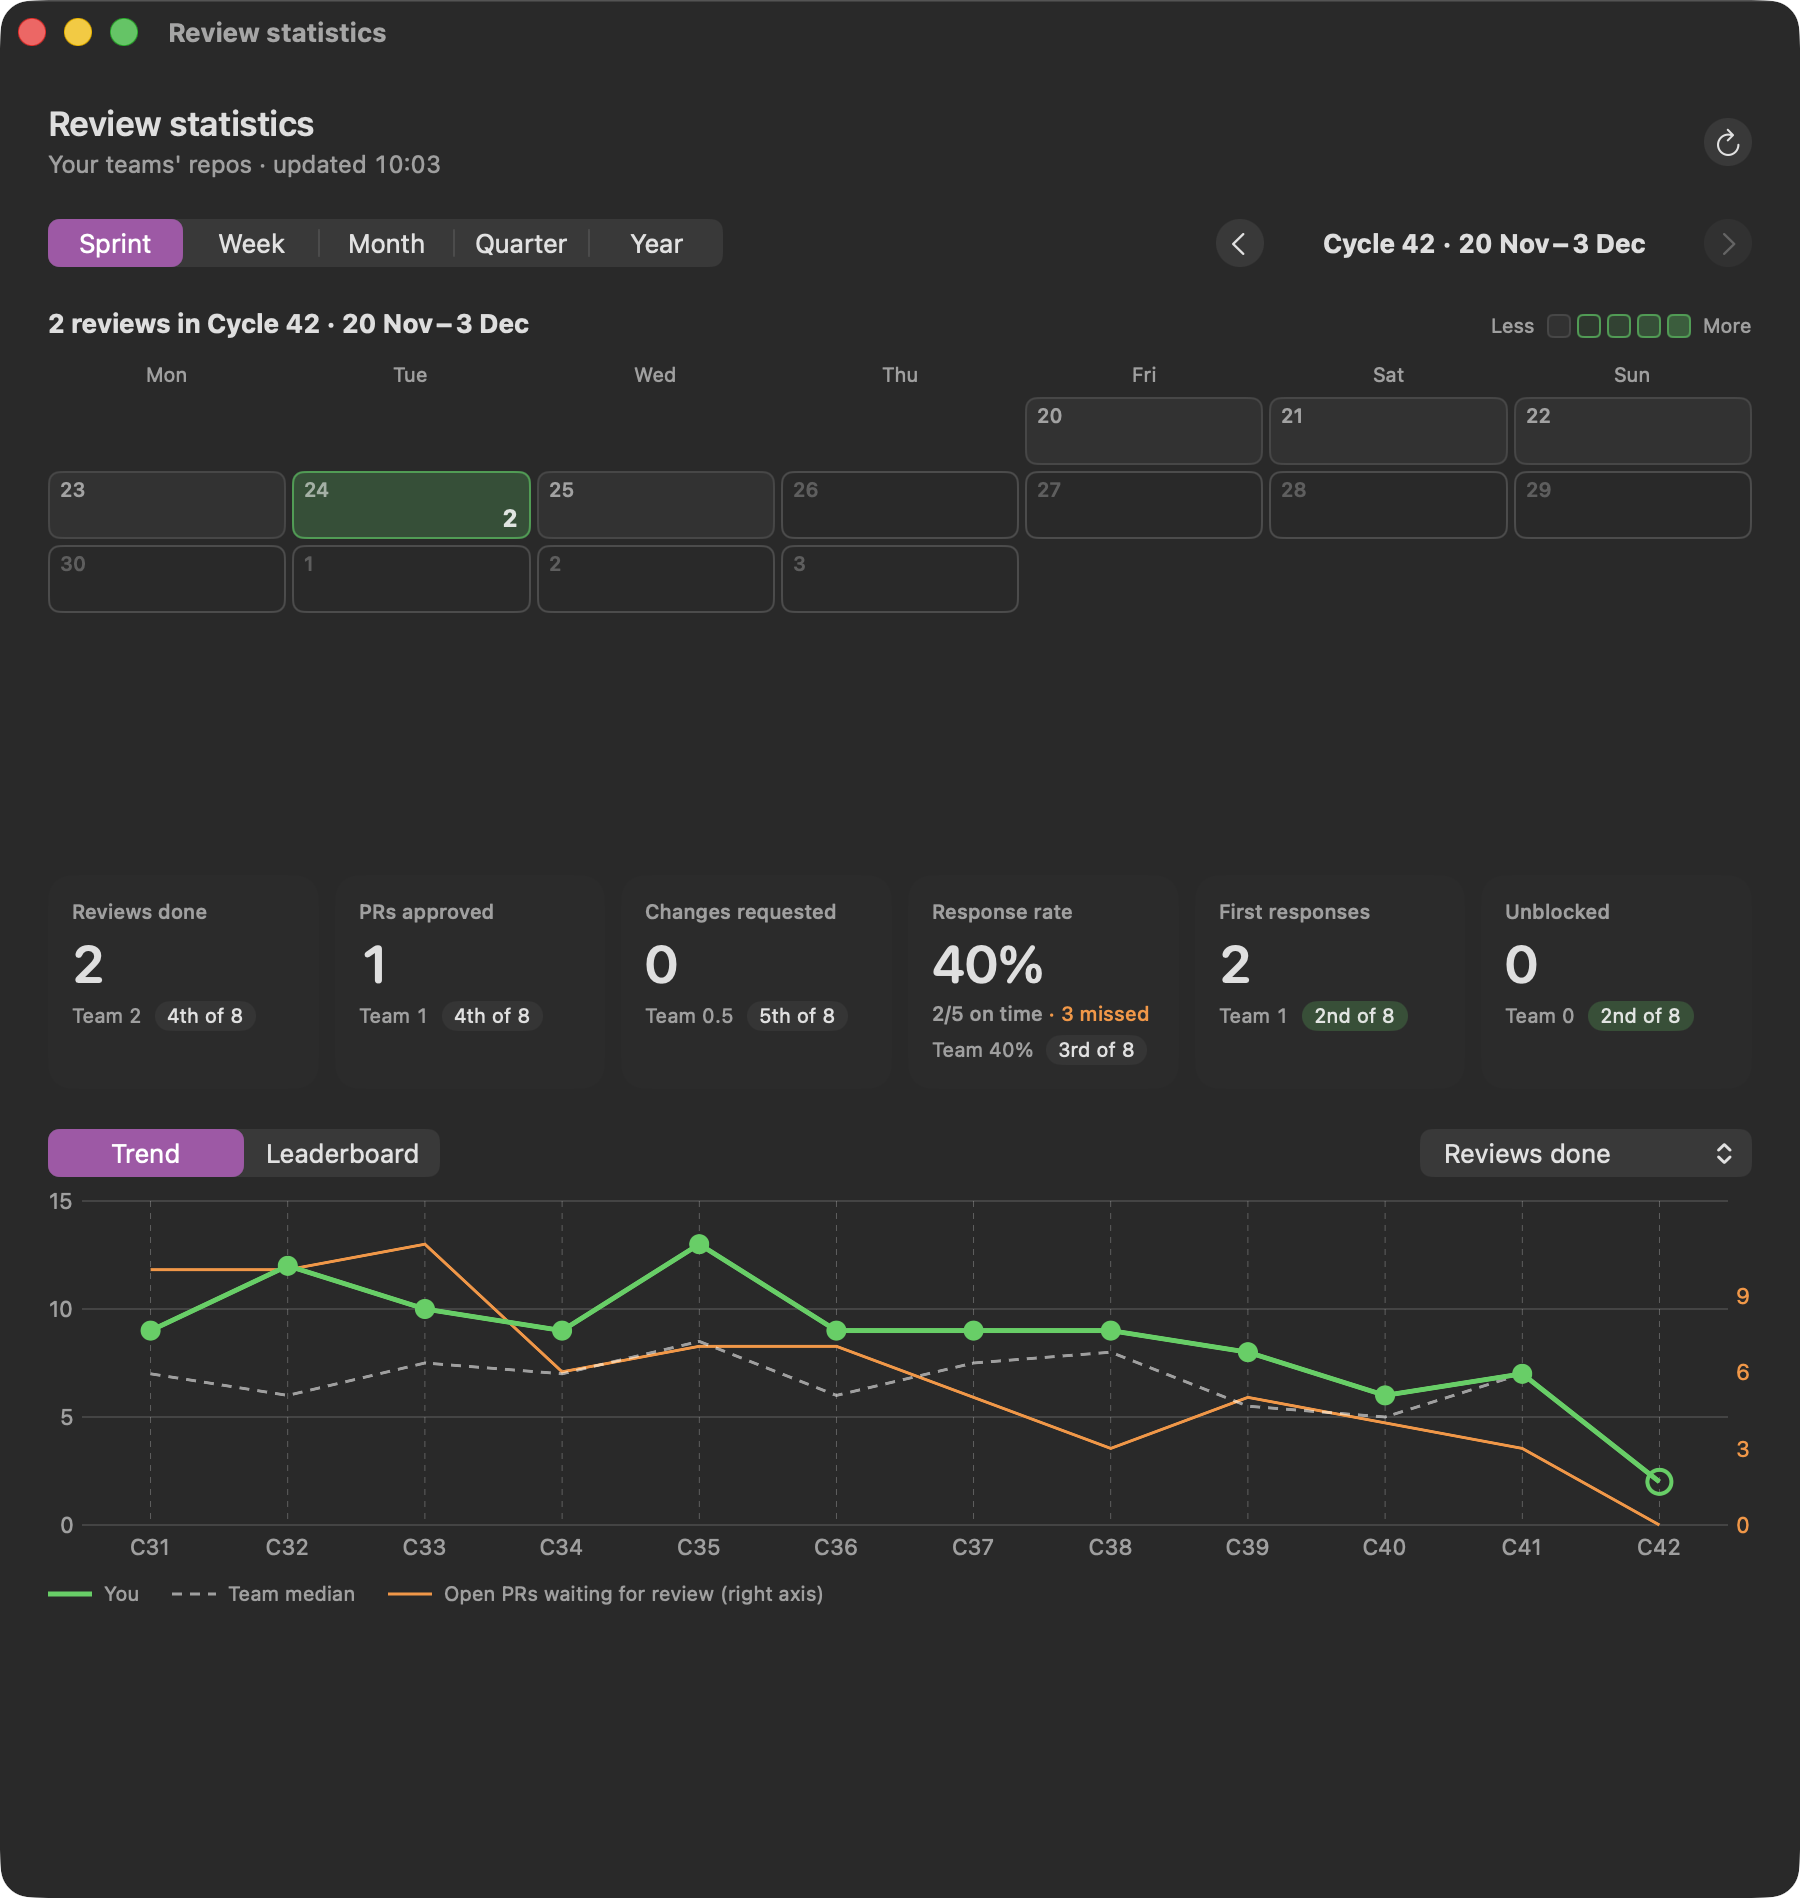
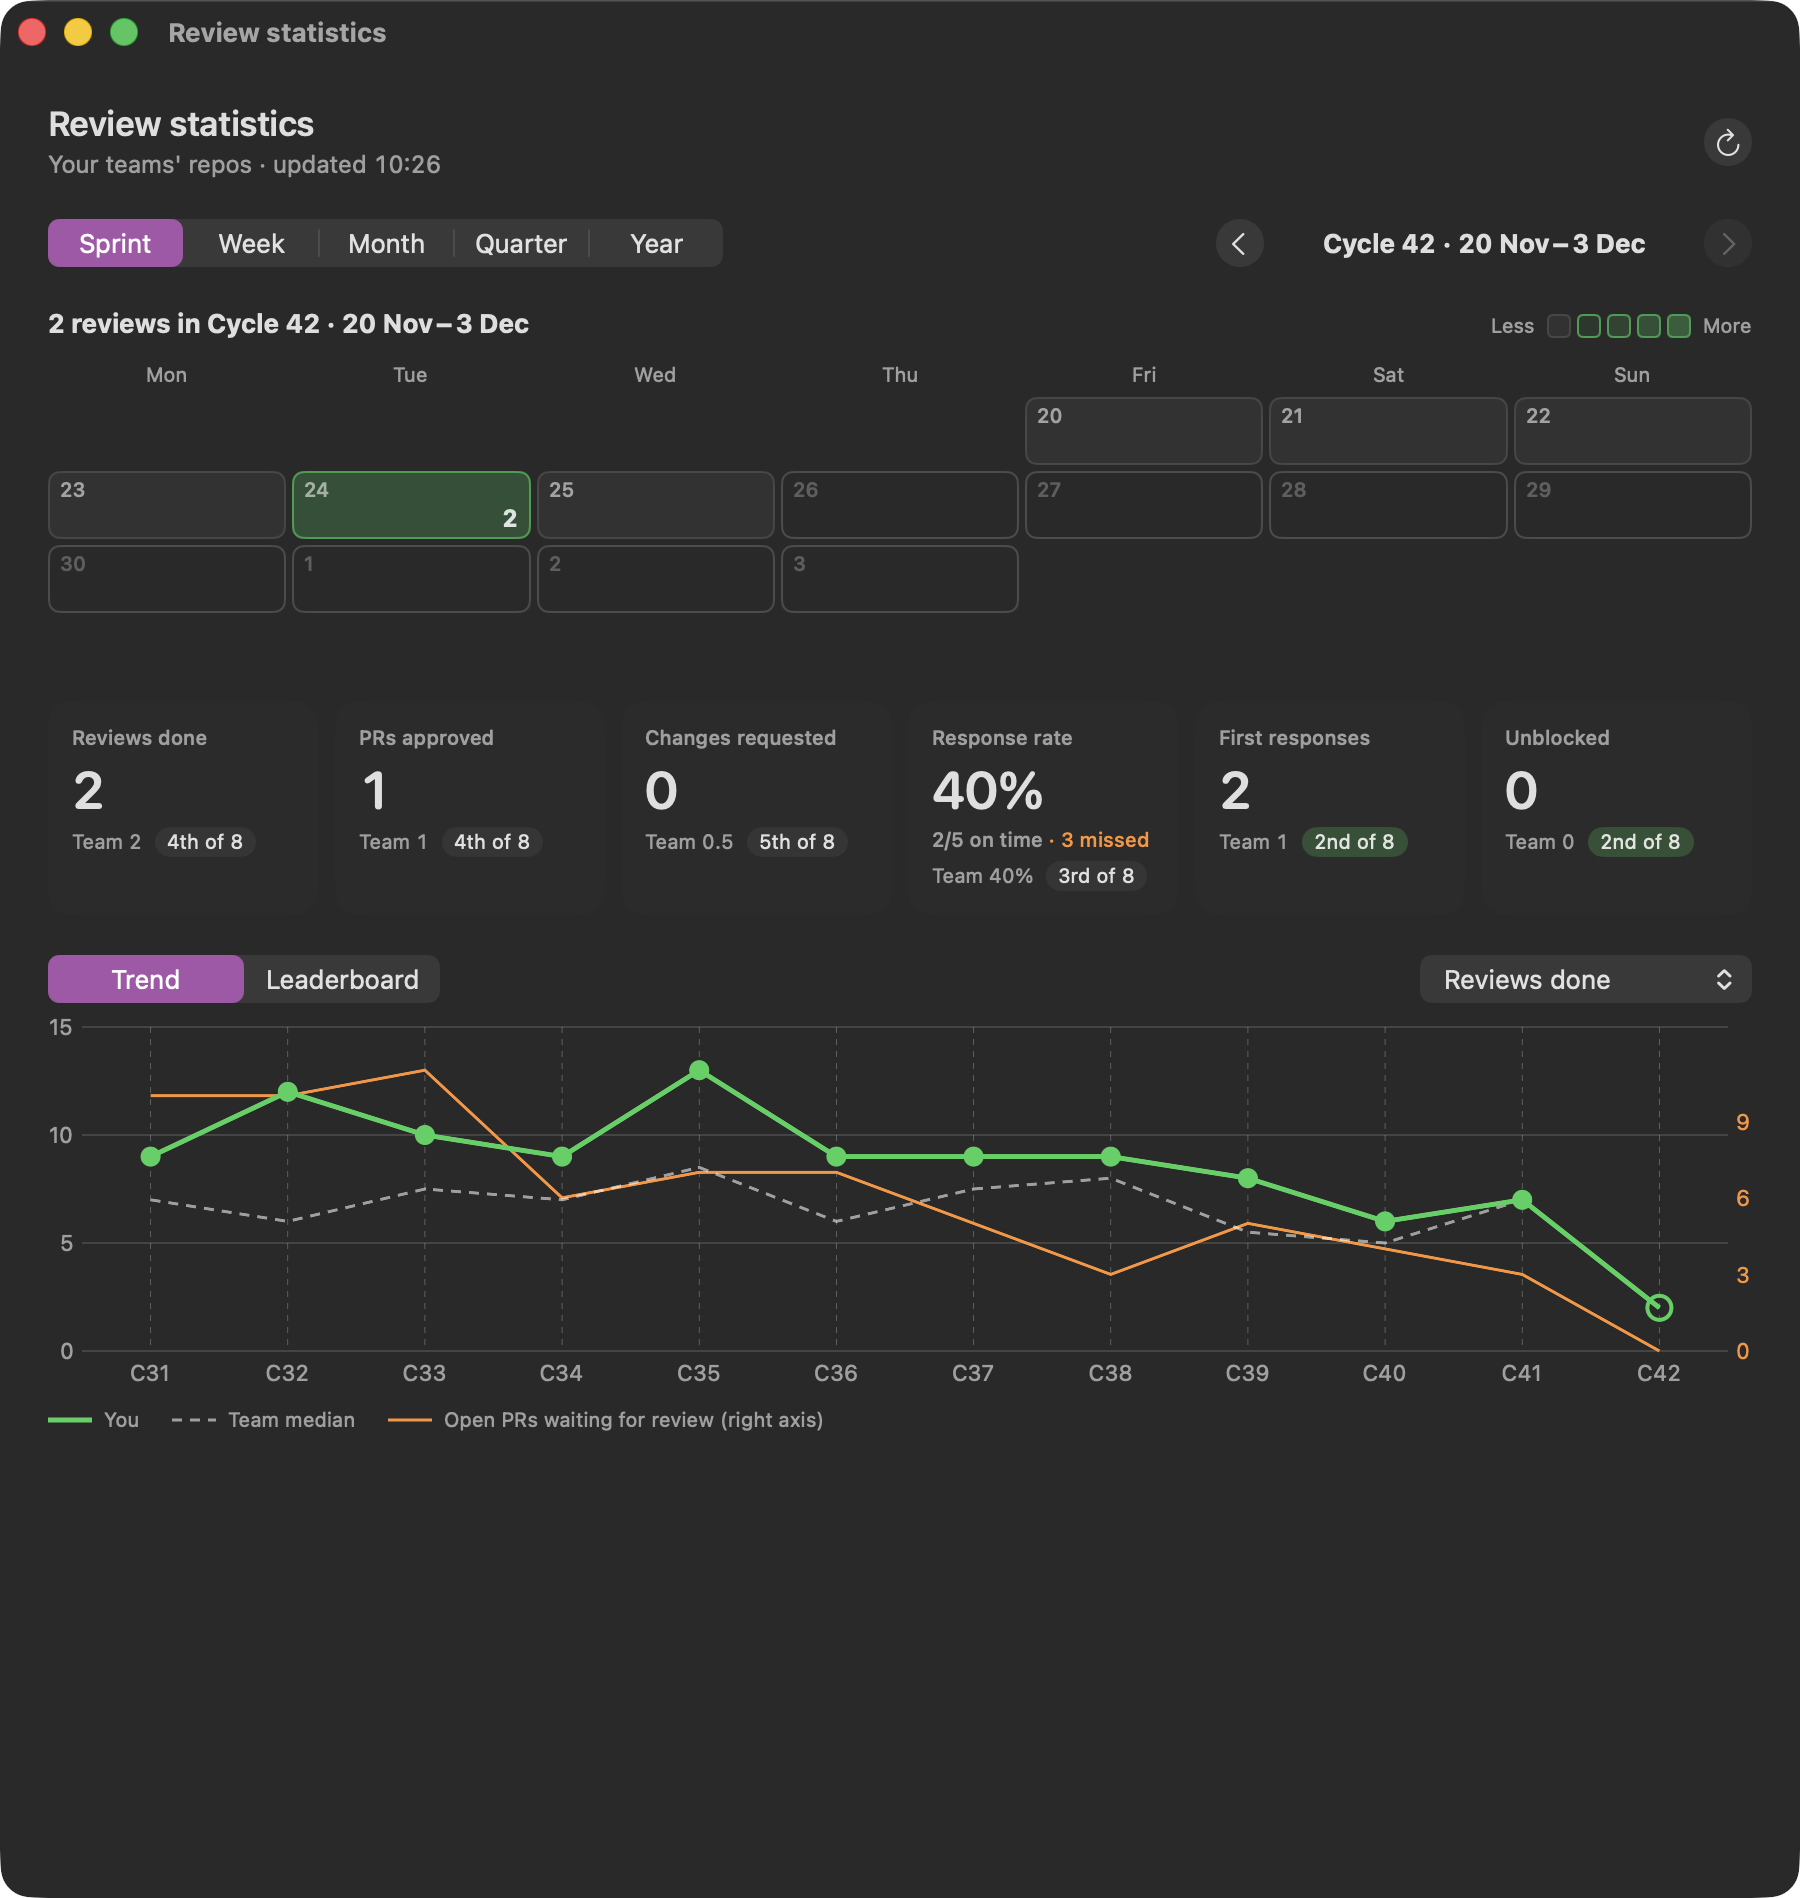
feat: shorten the stats graph to one compact block
The period graph now uses one 151pt block for every period instead of
one sized for a six-week month. Calendar rows share it up to 34pt, so a
week or sprint keeps full-size cells while a month packs into 19–24pt
rows with the date and count on one line, and Quarter and Year heatmaps
use 17pt rows. Content below still never moves when switching period,
and the window opens shorter.

diff --git a/Sources/ReviewQueue/StatsView.swift b/Sources/ReviewQueue/StatsView.swift
@@ -424,20 +424,20 @@ private struct IconButton: View {
 
 /// Your reviews over the selected period, across the full grid width: a header with the period's total, the hovered
 /// day and the Less/More legend, then the days as a calendar of numbered cells in week rows (Sprint, Week, Month) or a
-/// heatmap in week columns with month labels (Quarter, Year), every reviewed day showing its count. The days sit in a
-/// block as tall as a six-week month, so switching period never moves what is below. Future days are dim outlines;
-/// days outside the period are blank. Sizes come from the grid's fixed width, never from a measurement, so the graph
+/// heatmap in week columns with month labels (Quarter, Year), every reviewed day showing its count. The days sit in one
+/// fixed-height block (`GraphLayout`) for every period, so switching period never moves what is below: calendar rows
+/// share it, top-aligned and capped, and turn compact (date and count on one line) when short. Future days are dim
+/// outlines; days outside the period are blank. Sizes come from the grid's fixed width, never from a measurement, so the graph
 /// can't feed back into the window's size.
 private struct PeriodGraphView: View {
-    private static let gap: CGFloat = 3
-    private static let heatmapGap: CGFloat = 2
+    private static let gap = CGFloat(GraphLayout.calendarGap)
+    private static let heatmapGap = CGFloat(GraphLayout.heatmapGap)
     private static let width = StatsContent.gridWidth
     private static let rowLabelWidth: CGFloat = 30
-    private static let dayHeight: CGFloat = 34
-    private static let headerHeight: CGFloat = 16
-    private static let blockHeight = headerHeight + gap + 6 * dayHeight + 5 * gap
+    private static let labelRow = CGFloat(GraphLayout.labelRow)
+    private static let labelGap = CGFloat(GraphLayout.labelGap)
+    private static let blockHeight = CGFloat(GraphLayout.blockHeight)
     private static let swatch: CGFloat = 12
-    private static let monthRow: CGFloat = 14
 
     let graph: PeriodGraph
     let title: String
@@ -471,49 +471,59 @@ private struct PeriodGraphView: View {
     }
 
     private var calendarGrid: some View {
-        VStack(spacing: Self.gap) {
+        let rowHeight = CGFloat(GraphLayout.rowHeight(rows: graph.weeks.count, gap: GraphLayout.calendarGap))
+        return VStack(spacing: Self.gap) {
             HStack(spacing: Self.gap) {
                 ForEach(graph.weekdays.indices, id: \.self) { index in
                     Text(graph.weekdays[index])
                         .font(.caption)
                         .foregroundStyle(.secondary)
                         .frame(maxWidth: .infinity)
-                        .frame(height: Self.headerHeight)
+                        .frame(height: Self.labelRow)
                 }
             }
             ForEach(graph.weeks.indices, id: \.self) { week in
                 HStack(spacing: Self.gap) {
                     ForEach(0..<7, id: \.self) { slot in
-                        calendarDay(graph.weeks[week][slot])
+                        calendarDay(graph.weeks[week][slot], height: rowHeight)
                     }
                 }
             }
         }
     }
 
-    @ViewBuilder private func calendarDay(_ day: GraphDay?) -> some View {
+    @ViewBuilder private func calendarDay(_ day: GraphDay?, height: CGFloat) -> some View {
         if let day {
-            ZStack {
-                Text("\(calendar.component(.day, from: day.date))")
-                    .font(.caption2)
-                    .foregroundStyle(day.isFuture ? .tertiary : .secondary)
-                    .frame(maxWidth: .infinity, maxHeight: .infinity, alignment: .topLeading)
-                if day.count > 0 {
-                    Text("\(day.count)")
-                        .font(.callout.weight(.bold))
-                        .monospacedDigit()
-                        .frame(maxWidth: .infinity, maxHeight: .infinity, alignment: .bottomTrailing)
+            let isCompact = GraphLayout.isCompact(Double(height))
+            let date = Text("\(calendar.component(.day, from: day.date))")
+                .font(.caption2)
+                .foregroundStyle(day.isFuture ? .tertiary : .secondary)
+            let count = Text(day.count > 0 ? "\(day.count)" : "")
+                .font(isCompact ? .caption.weight(.bold) : .callout.weight(.bold))
+                .monospacedDigit()
+            Group {
+                if isCompact {
+                    HStack {
+                        date
+                        Spacer(minLength: 4)
+                        count
+                    }
+                } else {
+                    ZStack {
+                        date.frame(maxWidth: .infinity, maxHeight: .infinity, alignment: .topLeading)
+                        count.frame(maxWidth: .infinity, maxHeight: .infinity, alignment: .bottomTrailing)
+                    }
+                    .padding(.vertical, 3)
                 }
             }
             .padding(.horizontal, 6)
-            .padding(.vertical, 3)
             .frame(maxWidth: .infinity)
-            .frame(height: Self.dayHeight)
+            .frame(height: height)
             .background(DayCell(level: day.level, isFuture: day.isFuture, palette: palette, cornerRadius: 6))
             .contentShape(Rectangle())
             .onHover { isInside in hovered = isInside && !day.isFuture ? day : nil }
         } else {
-            Color.clear.frame(maxWidth: .infinity).frame(height: Self.dayHeight)
+            Color.clear.frame(maxWidth: .infinity).frame(height: height)
         }
     }
 
@@ -522,7 +532,7 @@ private struct PeriodGraphView: View {
     private var heatmapCell: CGSize {
         let columns = CGFloat(max(graph.weeks.count, 1))
         let width = ((Self.width - Self.rowLabelWidth - 6) / columns).rounded(.down) - Self.heatmapGap
-        let byHeight = ((Self.blockHeight - Self.monthRow - 4) / 7).rounded(.down) - Self.heatmapGap
+        let byHeight = CGFloat(GraphLayout.rowHeight(rows: 7, gap: GraphLayout.heatmapGap))
         return CGSize(width: max(width, 6), height: max(min(width, byHeight), 6))
     }
 
@@ -538,8 +548,8 @@ private struct PeriodGraphView: View {
             .font(.caption2)
             .foregroundStyle(.secondary)
             .frame(width: Self.rowLabelWidth, alignment: .trailing)
-            .padding(.top, Self.monthRow + 4)
-            VStack(alignment: .leading, spacing: 4) {
+            .padding(.top, Self.labelRow + Self.labelGap)
+            VStack(alignment: .leading, spacing: Self.labelGap) {
                 ZStack(alignment: .topLeading) {
                     ForEach(graph.months, id: \.column) { month in
                         Text(month.name).offset(x: CGFloat(month.column) * step.width)
@@ -547,21 +557,21 @@ private struct PeriodGraphView: View {
                 }
                 .font(.caption2)
                 .foregroundStyle(.secondary)
-                .frame(width: CGFloat(graph.weeks.count) * step.width, height: Self.monthRow, alignment: .topLeading)
+                .frame(width: CGFloat(graph.weeks.count) * step.width, height: Self.labelRow, alignment: .topLeading)
                 heatmapCanvas(cell: cell, step: step)
             }
         }
     }
 
     /// Every day drawn in one Canvas rather than a view per day: bordered when cells are big enough to show it, and
-    /// with its count centred in a font scaled to the cell (never below 7pt). Hovering reads the day under the pointer
+    /// with its count centred in a font scaled to the cell's shorter side (never below 7pt). Hovering reads the day under the pointer
     /// from its position.
     private func heatmapCanvas(cell: CGSize, step: CGSize) -> some View {
         let weeks = graph.weeks
         let palette = palette
         let side = min(cell.width, cell.height)
         let radius = min(4, side / 4)
-        let font = Font.system(size: max(7, (side * 0.5).rounded(.down)), weight: .semibold).monospacedDigit()
+        let font = Font.system(size: max(7, (side * 0.6).rounded(.down)), weight: .semibold).monospacedDigit()
         return Canvas { context, _ in
             for (column, days) in weeks.enumerated() {
                 for (row, day) in days.enumerated() {

diff --git a/Sources/ReviewQueueCore/ReviewStats.swift b/Sources/ReviewQueueCore/ReviewStats.swift
@@ -413,6 +413,31 @@ public struct PeriodGraph: Equatable, Sendable {
     public let total: Int
 }
 
+/// The period graph's fixed geometry: one label row (weekdays or months) above a days area of the same height for every
+/// period, so switching period never moves what is below. Calendar rows share the days area up to a cap, and cells
+/// shorter than `compactBelow` put the date and count on one line.
+public enum GraphLayout {
+    public static let labelRow: Double = 16
+    public static let labelGap: Double = 3
+    public static let daysHeight: Double = 132
+    public static let calendarGap: Double = 3
+    public static let heatmapGap: Double = 2
+    public static let maxRow: Double = 34
+    public static let compactBelow: Double = 28
+
+    public static var blockHeight: Double { labelRow + labelGap + daysHeight }
+
+    /// The height of each of `rows` rows sharing the days area with `gap` between them, whole points, capped at `maxRow`.
+    public static func rowHeight(rows: Int, gap: Double) -> Double {
+        let count = Double(max(rows, 1))
+        return min(maxRow, ((daysHeight - (count - 1) * gap) / count).rounded(.down))
+    }
+
+    public static func isCompact(_ height: Double) -> Bool {
+        height < compactBelow
+    }
+}
+
 private let keptWeeks = 53
 
 /// The first day the history keeps: the start of the week 52 weeks before the one holding `today`.

diff --git a/Tests/ReviewQueueCoreTests/PeriodGraphTests.swift b/Tests/ReviewQueueCoreTests/PeriodGraphTests.swift
@@ -105,3 +105,27 @@ import Testing
         #expect(historyStart(today: today, calendar: utc(firstWeekday: 2)) == at("2025-11-24T00:00:00Z"))
     }
 }
+
+@Suite struct GraphLayoutTests {
+    @Test func everyPeriodSharesOneBlockAndRowsFillItUpToTheCap() {
+        #expect(GraphLayout.blockHeight == 151)
+        let row = { (rows: Int) in GraphLayout.rowHeight(rows: rows, gap: GraphLayout.calendarGap) }
+        #expect(row(1) == 34)
+        #expect(row(2) == 34)
+        #expect(row(3) == 34)
+        #expect(row(5) == 24)
+        #expect(row(6) == 19)
+        #expect(GraphLayout.rowHeight(rows: 7, gap: GraphLayout.heatmapGap) == 17)
+        #expect(row(0) == 34)
+        for rows in 1...6 {
+            #expect(Double(rows) * row(rows) + Double(rows - 1) * GraphLayout.calendarGap <= GraphLayout.daysHeight)
+        }
+    }
+
+    @Test func shortCellsPutDateAndCountOnOneLine() {
+        #expect(GraphLayout.isCompact(19))
+        #expect(GraphLayout.isCompact(27.9))
+        #expect(!GraphLayout.isCompact(28))
+        #expect(!GraphLayout.isCompact(34))
+    }
+}

diff --git a/Sources/ReviewQueue/ReviewQueueApp.swift b/Sources/ReviewQueue/ReviewQueueApp.swift
@@ -38,7 +38,7 @@ struct ReviewQueueApp: App {
         Window("Review statistics", id: StatsView.windowId) {
             StatsView(model: model)
         }
-        .defaultSize(width: StatsContent.width, height: 860)
+        .defaultSize(width: StatsContent.width, height: 780)
         .windowResizability(.contentMinSize)
         .defaultLaunchBehavior(.suppressed)
     }
